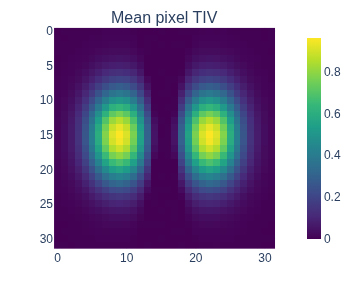
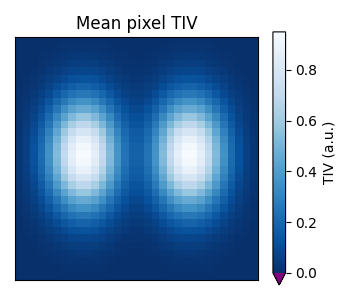
docs: match the TIV map alt text to the new image and list Plotly for the plots
The landing page has a new TIV map image, and its alt text names the colours of the lungs in it: light blue and white. The API page says that the plot functions make Matplotlib or Plotly figures, and that plot_rate_detection makes Matplotlib figures only. None is in code style in the PixelMap docs. The coding guidelines drop the comparison of BreathDetectionSettings with eitprocessing, which is no longer part of the install.

diff --git a/src/m3resp/data/pixel_maps.py b/src/m3resp/data/pixel_maps.py
@@ -165,7 +165,7 @@ class PixelMap:
     - ``"signed_pendelluft"``: pendelluft size, with a sign for early or late
       inflation.
     - ``"integer"``: whole numbers, such as region numbers, in every pixel.
-    - None: a plain map.
+    - ``None``: a plain map.
 
     A map of kind ``"amplitude"``, ``"perfusion"`` or ``"pendelluft"`` with
     a negative value gives a warning, unless

diff --git a/docs/developer/coding_guidelines.md b/docs/developer/coding_guidelines.md
@@ -42,7 +42,7 @@ A reader then sees what each value is without the order of the arguments. Two ar
 
 The settings of a function are named arguments, for example `mdn_filter(images, respiratory_rate=0.25, heart_rate=1.2, order=10)`. Values measured on the recording, such as the breathing rate and the heart rate that the MDN filter needs, are always arguments.
 
-A settings object holds the settings when they depend on each other. In `RateDetectionSettings`, `subject_type` (`"adult"` or `"neonate"`) sets the default limits of the breathing rate and the heart rate. `BreathDetectionSettings` holds the seven settings of the breath detection, as in eitprocessing.
+A settings object holds the settings when they depend on each other. In `RateDetectionSettings`, `subject_type` (`"adult"` or `"neonate"`) sets the default limits of the breathing rate and the heart rate. `BreathDetectionSettings` holds the seven settings of the breath detection.
 
 To use the same settings in several calls, put the named arguments in a dictionary:
 

diff --git a/docs/concepts/pixel-maps.md b/docs/concepts/pixel-maps.md
@@ -44,7 +44,7 @@ print(np.nanmean(tiv_map))  # 1.0
 | `modality` | The device: `"eit"` by default |
 | `category`, `unit` | The physical quantity and the unit |
 | `method`, `metadata` | The calculation and other details |
-| `kind` | What the numbers are: `"tiv"`, `"amplitude"`, `"odcl"`, `"difference"`, `"perfusion"`, `"pendelluft"`, `"signed_pendelluft"` or `"integer"`, or None for a plain map |
+| `kind` | What the numbers are: `"tiv"`, `"amplitude"`, `"odcl"`, `"difference"`, `"perfusion"`, `"pendelluft"`, `"signed_pendelluft"` or `"integer"`, or `None` for a plain map |
 
 M3Resp raises `ValueError` for values that are not a grid of rows and columns, and `TypeError` for values that are not numbers. NumPy functions use the grid of a `PixelMap`, as in the example.
 

diff --git a/docs/index.md b/docs/index.md
@@ -54,7 +54,7 @@ Map of the mean tidal impedance variation (TIV) of each EIT pixel
 :::
 
 :::{image} _static/miniatures/eit_pixel_tiv_map.png
-:alt: Map of the mean TIV of each EIT pixel, with the two lungs in bright colours.
+:alt: Map of the mean TIV of each EIT pixel, with the two lungs in light blue and white.
 :::
 :::::
 

diff --git a/docs/api/index.md b/docs/api/index.md
@@ -210,7 +210,7 @@ These functions return a `PixelMask` with 1 for the pixels of a region and NaN f
 
 ## Plots
 
-These functions make figures with Matplotlib.
+These functions make figures with Matplotlib (default) or Plotly. `plot_rate_detection` makes Matplotlib figures only.
 
 ```{eval-rst}
 .. autosummary::
